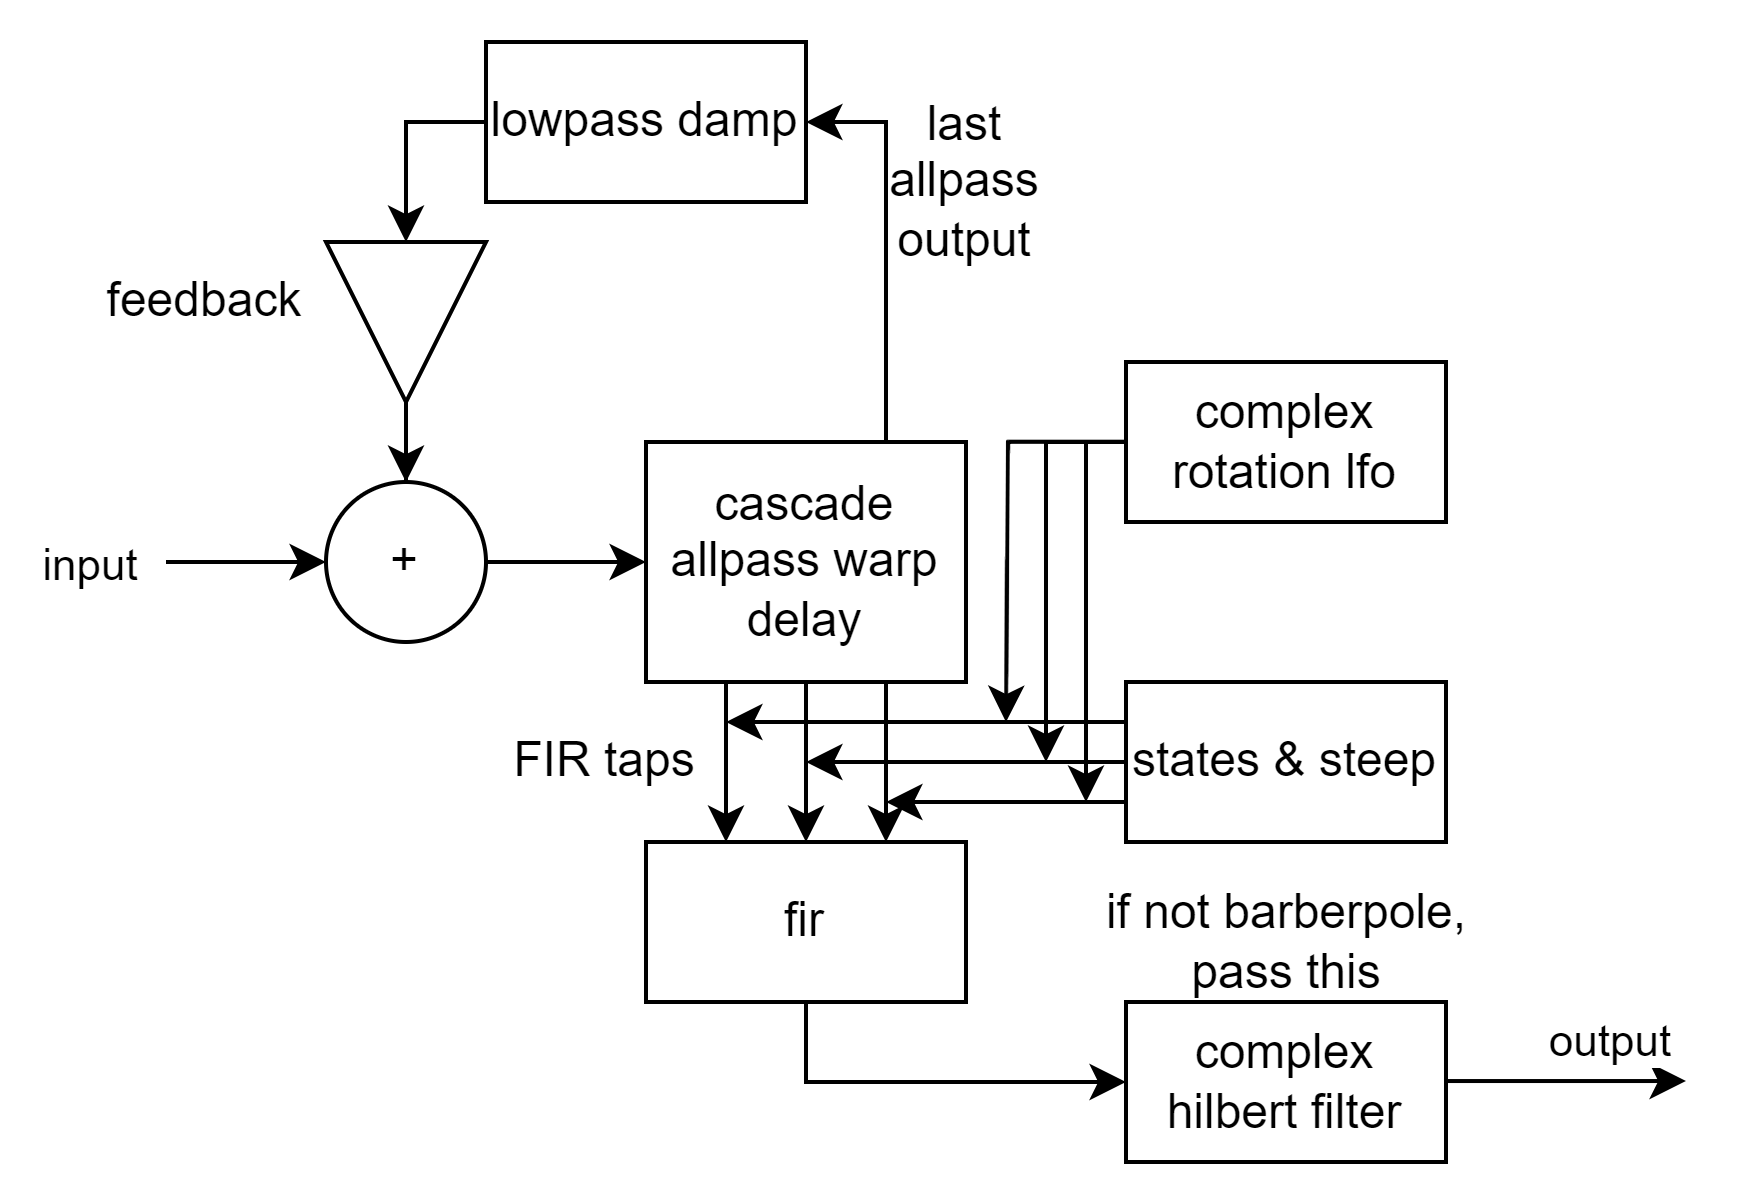
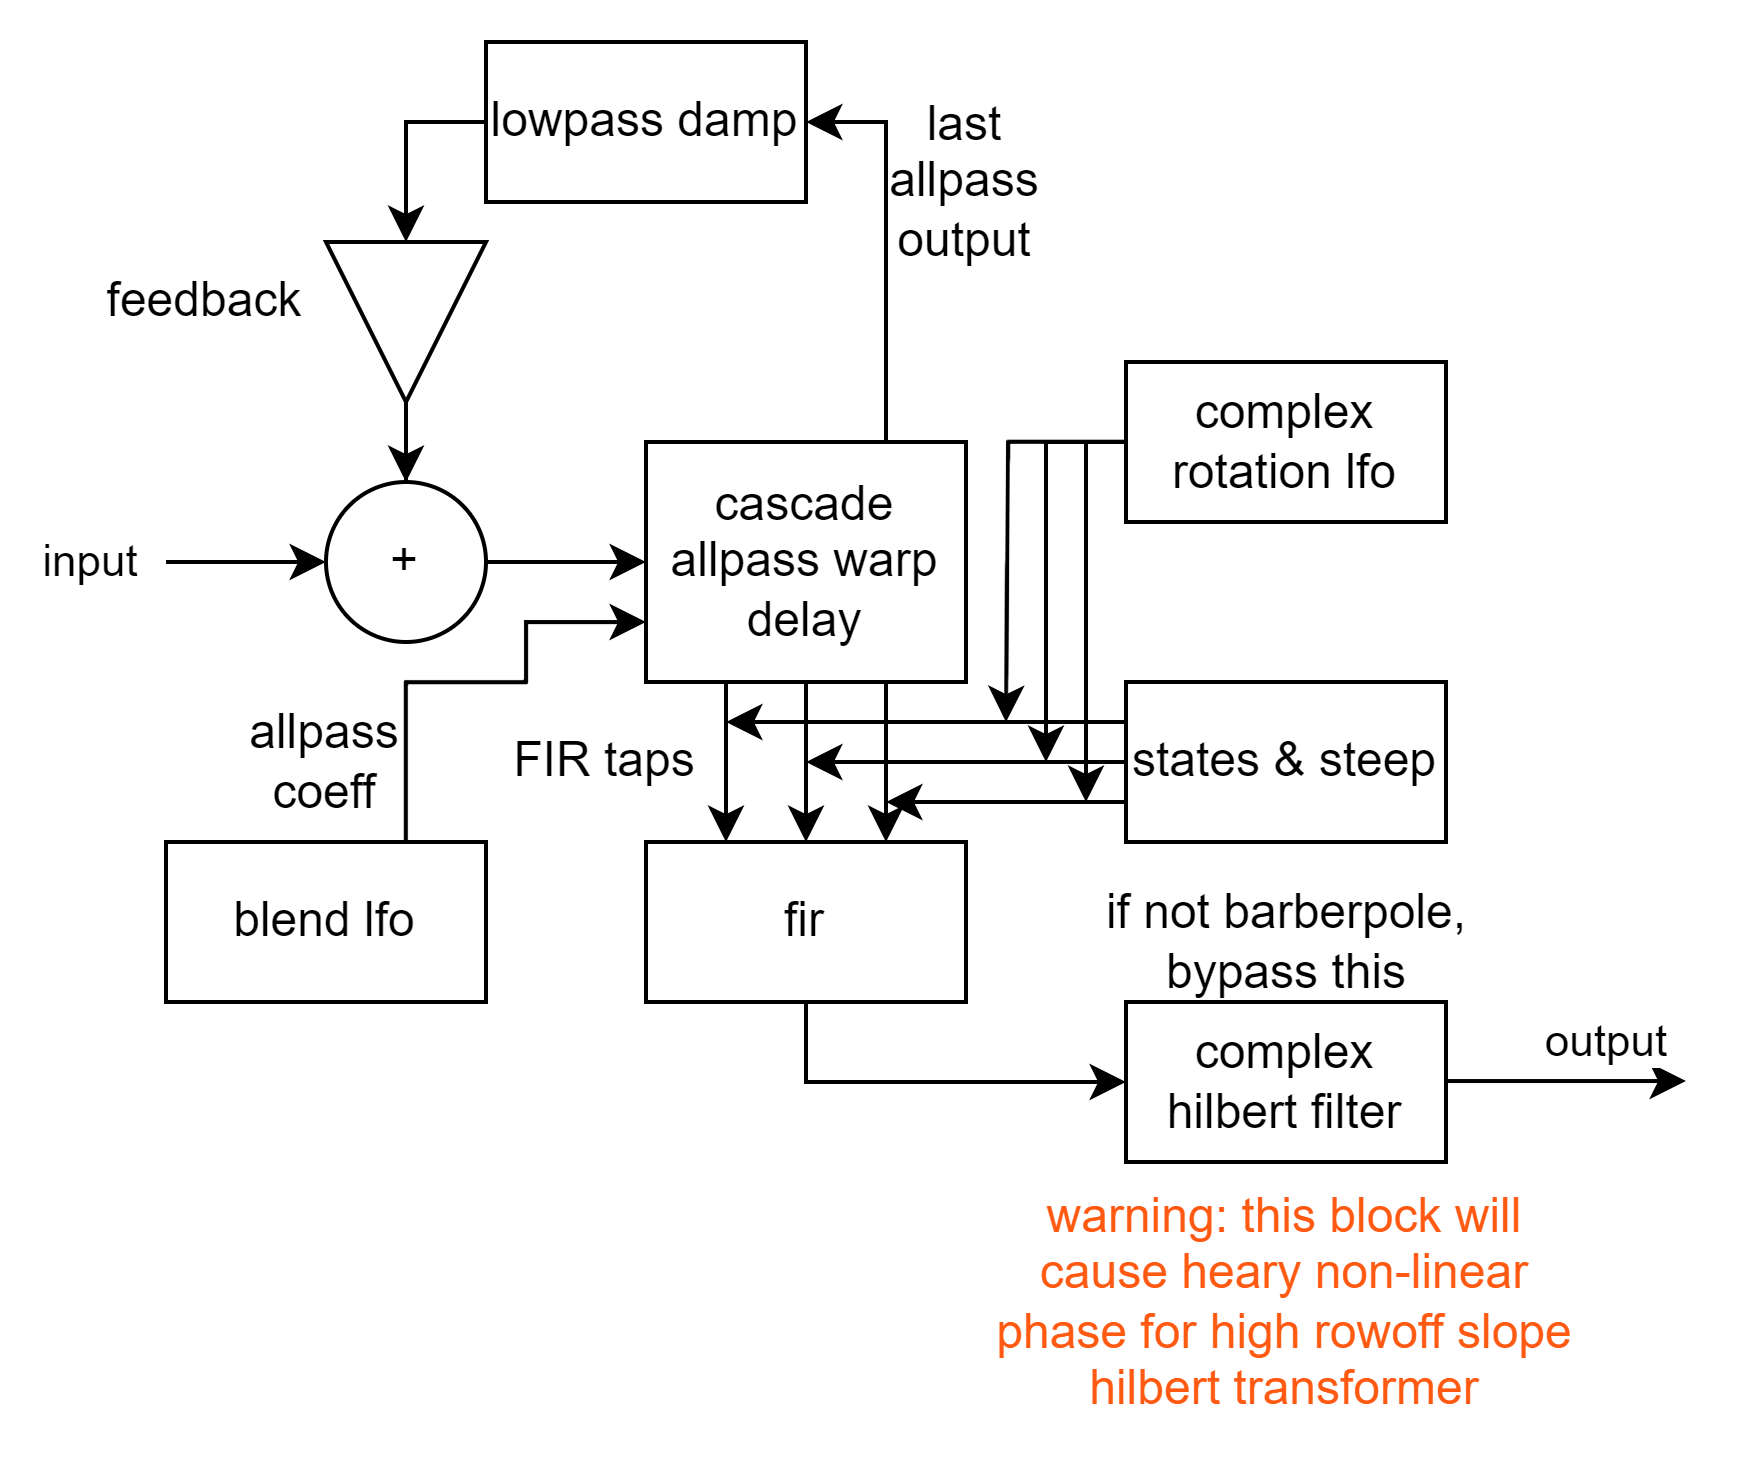
update signal-flow png

diff --git a/plugins/deep-phaser/readme.md b/plugins/deep-phaser/readme.md
@@ -22,6 +22,4 @@ barberpole phasing
 [youtube](https://www.youtube.com/watch?v=-OuCLQlKYQk)  
 
 ## todo
--[ ] optimise  
--[ ] add allpass filter blend modulation lfo  
--[ ] avx simd version and dynamic dispatch  
+-[ ] optimise cpu usage  
